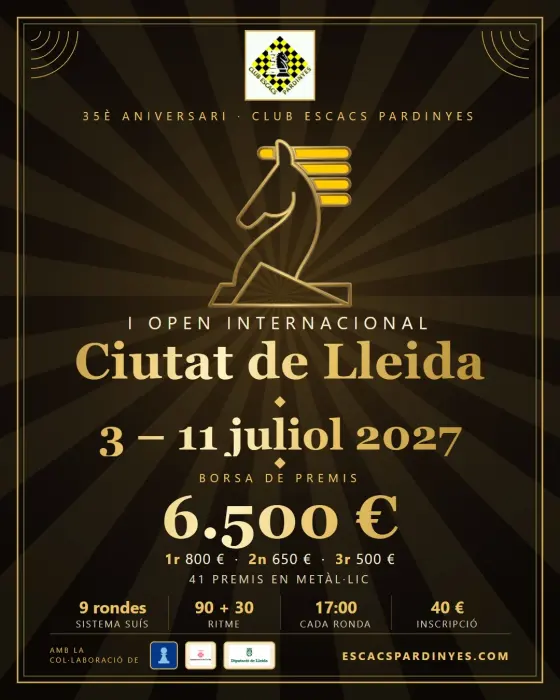
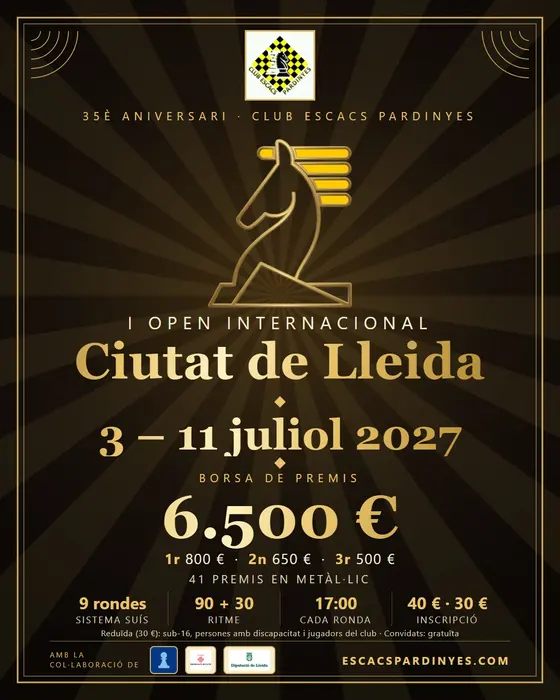
Posters and pages: new entry fees on Open and Rapid Prize, no prices on the Tancats
- Open and Rapid Prize posters show the general and reduced fee and free entry for invited players
- July Tancat poster: cup for the top 3 of each group, no registration or price line
- Easter Tancats poster and page: remove the registration line
- Remove the "Inscripció" fact from the July Tancat page in all languages

diff --git a/cartells/open/index.html b/cartells/open/index.html
@@ -20,13 +20,14 @@ svg.bg{position:absolute;inset:0}
 .prize .lab{font-size:22px;letter-spacing:.4em;text-transform:uppercase;color:#e9c46a}
 .prize .num{font-family:Georgia,serif;font-size:116px;font-weight:700;line-height:1.05}
 .prize .sub{font-size:28px;letter-spacing:.06em}.prize .sub2{font-size:22px;letter-spacing:.22em;text-transform:uppercase;color:#d9cfae;margin-top:6px}
-.info{position:absolute;top:1148px;left:110px;right:110px;display:flex;text-align:center}
+.info{position:absolute;top:1140px;left:110px;right:110px;display:flex;text-align:center}
 .info div{flex:1;border-left:1px solid #d8b25a66;padding:0 8px}
 .info div:first-child{border-left:0}
 .info b{display:block;font-size:32px;color:#e9c46a;font-weight:700}
 .info span{font-size:18px;letter-spacing:.14em;text-transform:uppercase;color:#d9cfae}
 .foot{position:absolute;bottom:46px;left:0;right:0;text-align:center;font-size:22px;letter-spacing:.3em;text-transform:uppercase;color:#e9c46a}
-.strip{position:absolute;left:96px;right:96px;top:1222px;height:76px;border-top:1px solid #d8b25a99;display:flex;align-items:center;gap:14px;padding-top:6px}.strip img{height:54px;width:auto;object-fit:contain;background:#f5ecd2;border:2px solid #d8b25a;border-radius:8px;padding:5px 8px}.strip img:first-of-type{padding:0;border-radius:8px}.strip .lab{font-size:14px;letter-spacing:.22em;text-transform:uppercase;color:#d8b25a;white-space:nowrap;line-height:1.35;margin-right:6px}.strip .web{margin-left:auto;font-size:21px;letter-spacing:.2em;text-transform:uppercase;color:#e9c46a;font-weight:700}
+.strip{position:absolute;left:96px;right:96px;top:1236px;height:66px;border-top:1px solid #d8b25a99;display:flex;align-items:center;gap:14px;padding-top:6px}.strip img{height:54px;width:auto;object-fit:contain;background:#f5ecd2;border:2px solid #d8b25a;border-radius:8px;padding:5px 8px}.strip img:first-of-type{padding:0;border-radius:8px}.strip .lab{font-size:14px;letter-spacing:.22em;text-transform:uppercase;color:#d8b25a;white-space:nowrap;line-height:1.35;margin-right:6px}.strip .web{margin-left:auto;font-size:21px;letter-spacing:.2em;text-transform:uppercase;color:#e9c46a;font-weight:700}
+.fee{position:absolute;left:96px;right:96px;top:1210px;text-align:center;font-size:16px;letter-spacing:.04em;color:#d9cfae}
 </style></head><body>
 <svg class="bg" viewBox="0 0 1080 1350" xmlns="http://www.w3.org/2000/svg">
  <defs>
@@ -56,8 +57,9 @@ svg.bg{position:absolute;inset:0}
  <div><b>9 rondes</b><span>Sistema suís</span></div>
  <div><b>90 + 30</b><span>Ritme</span></div>
  <div><b>17:00</b><span>Cada ronda</span></div>
- <div><b>40 €</b><span>Inscripció</span></div>
+ <div><b>40 € · 30 €</b><span>Inscripció</span></div>
 </div>
+<div class="fee">Reduïda (30 €): sub-16, persones amb discapacitat i jugadors del club · Convidats: gratuïta</div>
 <div class="strip"><span class="lab">Amb la<br>col·laboració de</span><img src="federacio.jpeg"><img class="w" src="logopaeria-color.webp"><img class="w" src="diputaciolleida.webp"><span class="web">escacspardinyes.com</span></div>
 <script>
 const NS='http://www.w3.org/2000/svg',mk=(n,a,p)=>{const e=document.createElementNS(NS,n);for(const k in a)e.setAttribute(k,a[k]);p.appendChild(e);return e};

diff --git a/cartells/actiu/index.html b/cartells/actiu/index.html
@@ -29,6 +29,7 @@ h1 .b{display:block;font-size:100px;color:#ffc107}
 .strip .lab{font-size:14px;letter-spacing:.2em;text-transform:uppercase;color:#cfc6aa;line-height:1.35;margin-right:6px;white-space:nowrap}
 .strip .web{margin-left:auto;font-size:21px;letter-spacing:.2em;text-transform:uppercase;color:#ffc107;font-weight:700}
 .where{margin-top:4px;font-size:25px;letter-spacing:.12em;text-transform:uppercase;color:#d9cfae}
+.fee{position:absolute;left:64px;right:64px;bottom:116px;font-size:16px;letter-spacing:.03em;color:#cfc6aa}
 </style></head><body>
 <svg class="art" width="1080" height="660" viewBox="0 0 1080 660" xmlns="http://www.w3.org/2000/svg">
  <rect width="1080" height="660" fill="#f3e9cf"/>
@@ -50,9 +51,10 @@ h1 .b{display:block;font-size:100px;color:#ffc107}
   <div><b>9 rondes</b><span>Sistema suís</span></div>
   <div><b>15 + 5</b><span>Ritme</span></div>
   <div><b>20 €</b><span>Inscripció</span></div>
-  <div><b>Gratis</b><span>Club, FM, MI i GM</span></div>
+  <div><b>15 €</b><span>Reduïda*</span></div>
  </div>
 </div>
+<div class="fee">*Reduïda: sub-16, persones amb discapacitat i jugadors del club · Convidats: gratuïta</div>
 <div class="strip"><span class="lab">Amb la<br>col·laboració de</span><img src="federacio.jpeg"><img src="logopaeria-color.webp"><img src="diputaciolleida.webp"><span class="web">escacspardinyes.com</span></div>
 <script>
 const NS='http://www.w3.org/2000/svg',mk=(n,a,p)=>{const e=document.createElementNS(NS,n);for(const k in a)e.setAttribute(k,a[k]);p.appendChild(e);return e};

diff --git a/cartells/tancat-juliol/index.html b/cartells/tancat-juliol/index.html
@@ -51,12 +51,12 @@ svg.bg{position:absolute;inset:0}
 <div class="top"><img src="logo.webp" alt=""><div class="kicker">35è aniversari · Club Escacs Pardinyes</div></div>
 <div class="t" style="top:598px"><div class="a">Tancat de l'Open Internacional</div><div class="b gold">Ciutat de Lleida</div></div>
 <div class="t date"><div class="big gold">3 – 11 juliol 2027</div></div>
-<div class="t prize"><div class="lab">Tancat exclusiu per a</div><div class="num gold">GM i MI</div><div class="sub">Premis als <b style="color:#e9c46a">3 primers</b> de cada grup</div><div class="sub2">Vàlid per a Elo FIDE i català</div></div>
+<div class="t prize"><div class="lab">Tancat exclusiu per a</div><div class="num gold">GM i MI</div><div class="sub">Copa per als <b style="color:#e9c46a">3 primers</b> de cada grup</div><div class="sub2">Vàlid per a Elo FIDE i català</div></div>
 <div class="info">
  <div><b>Lliga</b><span>Round robin</span></div>
  <div><b>90 + 30</b><span>Ritme</span></div>
  <div><b>17:00</b><span>Cada ronda</span></div>
- <div><b>Aviat</b><span>Inscripció</span></div>
+ <div><b>Aviat</b><span>Bases</span></div>
 </div>
 <div class="strip"><span class="lab">Amb la<br>col·laboració de</span><img src="federacio.jpeg"><img class="w" src="logopaeria-color.webp"><img class="w" src="diputaciolleida.webp"><span class="web">escacspardinyes.com</span></div>
 <script>

diff --git a/src/data/circuitTranslations.js b/src/data/circuitTranslations.js
@@ -109,7 +109,6 @@ export const circuitTranslations = {
                 ["Sistema", "Liga (Round Robin)"],
                 ["Ritme de joc", "90 minutos + 30 segundos por jugada (90+30)"],
                 ["Vàlid per a", "Elo FIDE y Elo catalán"],
-                ["Inscripció", "Por confirmar"],
             ],
             dates: "Del 3 al 11 de julio de 2027",
             previous: { label: "Ver los Cerrados de Semana Santa", path: "/tancats-setmana-santa-2027" },
@@ -128,7 +127,6 @@ export const circuitTranslations = {
                 ["Sistema", "Round robin"],
                 ["Ritme de joc", "90 minutes + 30 seconds per move (90+30)"],
                 ["Vàlid per a", "FIDE and Catalan Elo"],
-                ["Inscripció", "To be confirmed"],
             ],
             dates: "3 to 11 July 2027",
             previous: { label: "See the Easter closed tournaments", path: "/tancats-setmana-santa-2027" },
@@ -196,7 +194,6 @@ const FR = {
             ["Sistema", "Toutes rondes (Round Robin)"],
             ["Ritme de joc", "90 minutes + 30 secondes par coup (90+30)"],
             ["Vàlid per a", "Elo FIDE et Elo catalan"],
-            ["Inscripció", "À confirmer"],
         ],
         dates: "Du 3 au 11 juillet 2027",
         previous: { label: "Voir les tournois fermés de Pâques", path: "/tancats-setmana-santa-2027" },

diff --git a/src/pages/TorneigGMMIAugost.jsx b/src/pages/TorneigGMMIAugost.jsx
@@ -118,7 +118,6 @@ export default function TorneigGMMIAugost() {
                             <ul className="list-unstyled ml-4">
                                 <li dangerouslySetInnerHTML={tHtml('gmmi_agost.format')}></li>
                                 <li dangerouslySetInnerHTML={tHtml('gmmi_agost.rhythm')}></li>
-                                <li dangerouslySetInnerHTML={tHtml('gmmi_agost.fee')}></li>
                             </ul>
 
                             <h4 className="mt-4 mb-3"><i className="fa fa-trophy text-warning mr-2"></i>{t('gmmi_agost.trophies_title')}</h4>

diff --git a/cartells/tancats/index.html b/cartells/tancats/index.html
@@ -64,7 +64,6 @@ h1{position:absolute;top:140px;left:0;right:0;text-align:center;font-family:Geor
  <div><b>Elo FIDE</b><span>i Elo català</span></div>
  <div><b>Premis</b><span>3 primers per grup</span></div>
 </div>
-<div class="note">Inscripció <b>per invitació</b> o selecció per Elo</div>
 <div class="strip"><span class="lab">Amb la<br>col·laboració de</span><img src="logopaeria-color.webp"><img src="diputaciolleida.webp"><span class="web">escacspardinyes.com</span></div>
 <script>
 window.render=()=>{};

diff --git a/src/data/circuitConfig.js b/src/data/circuitConfig.js
@@ -175,7 +175,6 @@ export const circuitConfig = {
             ['Sistema', 'Lliga (Round Robin)'],
             ['Ritme de joc', '90 minuts + 30 segons per jugada (90+30)'],
             ['Vàlid per a', 'Elo FIDE i Elo català'],
-            ['Inscripció', 'Per confirmar'],
         ],
         dates: 'Del 3 a l\'11 de juliol de 2027',
         time: '17:00',
